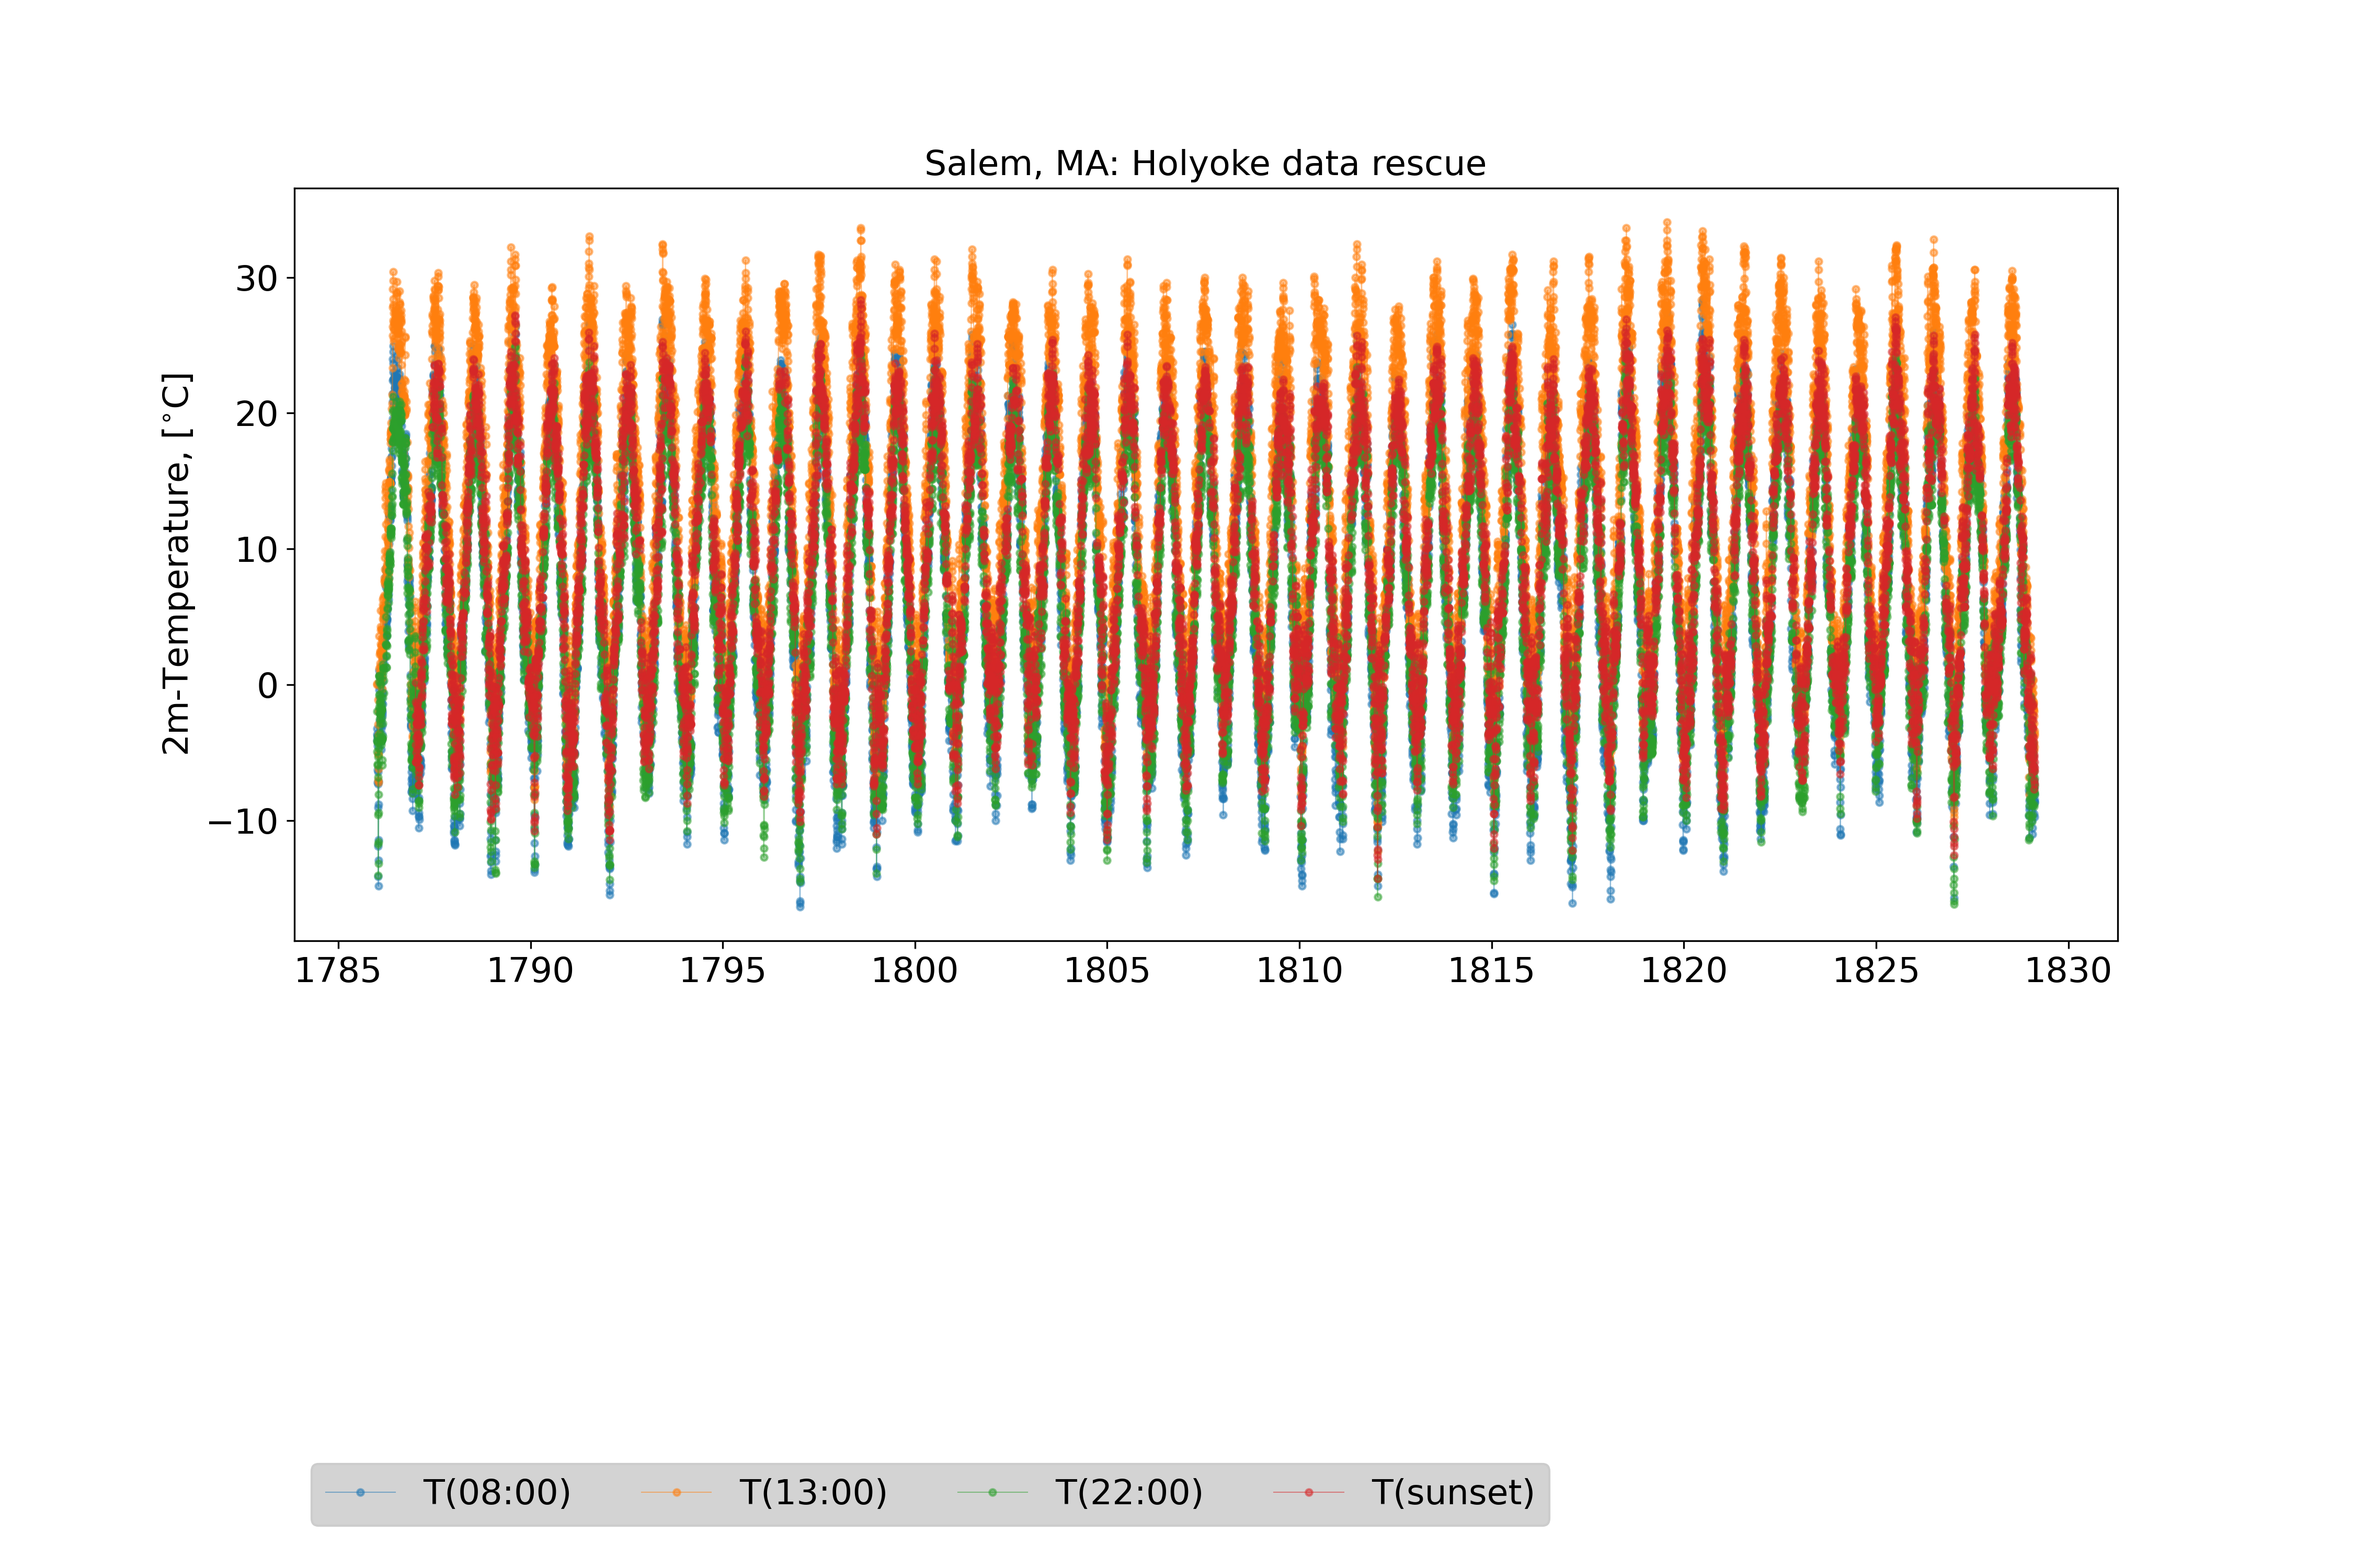
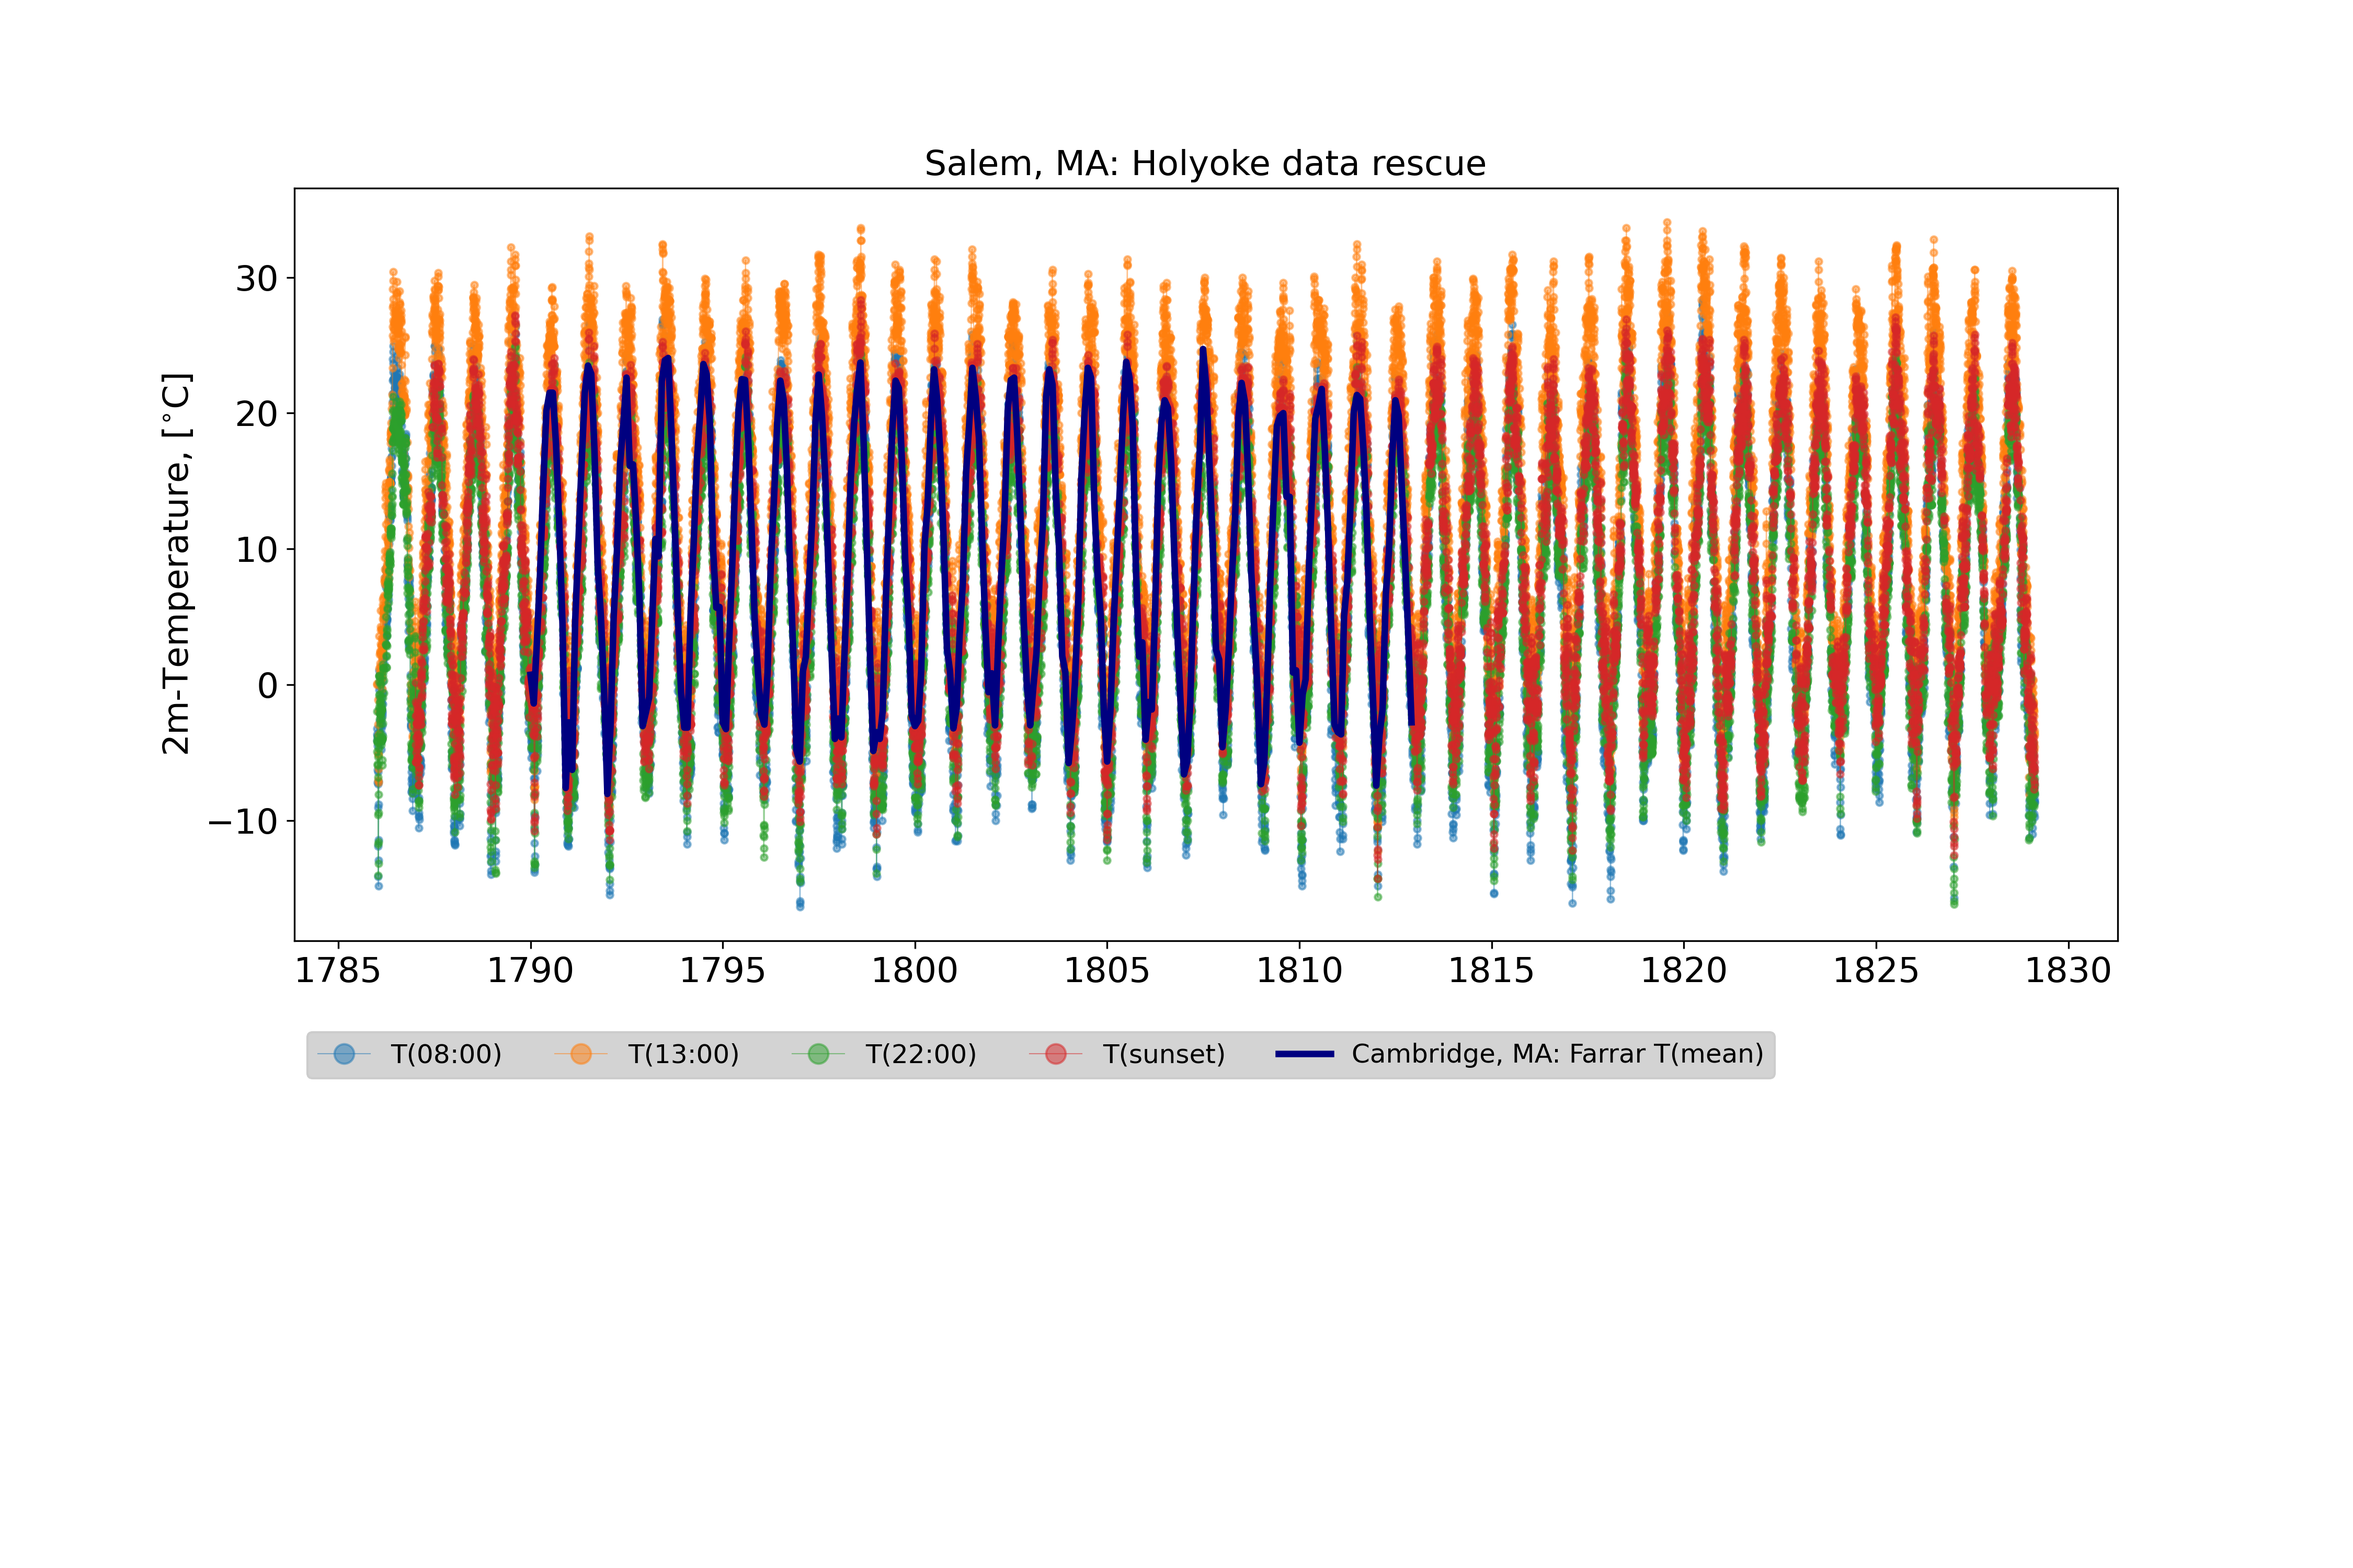
Overlay of Farrar Cambridge, MA monthly observation on Holyoke observations. Fixed calendar shift using cftime and resampling in xarray.

Changed region(s): [[0.2178, 0.217, 0.6222, 0.496], [0.1244, 0.651, 0.7778, 0.713], [0.1244, 0.93, 0.6844, 0.992]]

diff --git a/load-new-england-datasets.py b/load-new-england-datasets.py
@@ -66,9 +66,21 @@ from sklearn import datasets, linear_model
 from sklearn.linear_model import LinearRegression, TheilSenRegressor
 from sklearn.linear_model import RANSACRegressor
 from sklearn.metrics import mean_squared_error, r2_score
-
 from statsmodels.tsa.stattools import adfuller
 import statsmodels.api as sm
+
+# Datetime libraries
+import cftime
+import calendar 
+# print(calendar.calendar(2020))
+# print(calendar.month(2020,2))
+# calendar.isleap(2020)
+from datetime import date, time, datetime, timedelta
+#today = datetime.now()
+#tomorrow = today + pd.to_timedelta(1,unit='D')
+#tomorrow = today + timedelta(days=1)
+#birthday = datetime(1970,11,1,0,0,0).strftime('%Y-%m-%d %H:%M')
+#print('Week:',today.isocalendar()[1])
 
 # Silence library version notifications
 import warnings
@@ -163,7 +175,7 @@ if load_stations == True:
         ts_monthly = ts_monthly + monthly.to_list()    
     ts_monthly = np.array(ts_monthly)   
     t_monthly = pd.date_range(start=str(da.index[0]), periods=len(ts_monthly), freq='MS')    
-    df_bho_2828 = pd.DataFrame({'Tmean':ts_monthly}, index=t_monthly)
+    df_bho_2828 = pd.DataFrame({'T2828':ts_monthly}, index=t_monthly)
     df_bho_2828.index.name = 'datetime'
 
     da = pd.read_table('DATA/bho-tg.dat', index_col=0) # Tg monthly average
@@ -173,13 +185,14 @@ if load_stations == True:
         ts_monthly = ts_monthly + monthly.to_list()    
     ts_monthly = np.array(ts_monthly)   
     t_monthly = pd.date_range(start=str(da.index[0]), periods=len(ts_monthly), freq='MS')    
-    df_bho_tg = pd.DataFrame({'Tmean':ts_monthly}, index=t_monthly)
+    df_bho_tg = pd.DataFrame({'Tg':ts_monthly}, index=t_monthly)
     df_bho_tg.index.name = 'datetime'
 
     da = pd.read_table('DATA/bho-max_01.dat', index_col=0) # daily
     for i in range(2,13):
         db = pd.read_table('DATA/bho-max_'+str(i).zfill(2)+'.dat', index_col=0) # daily 
-        da = pd.concat([da,db],axis=1)        
+        da = pd.concat([da,db],axis=1)    
+    t = []        
     ts = []    
     for i in range(len(da)):                
         daily = da.iloc[i,0:]
@@ -189,14 +202,15 @@ if load_stations == True:
 
     # HANDLE: leap days (not working yet!)
 
-    t = pd.date_range(start=str(da.index[0])+'-01-01', periods=len(ts), freq='D')    
+    t = xr.cftime_range(start=str(da.index[0])+'-01-01', periods=len(ts), freq='D', calendar="all_leap")   
+#   t = pd.date_range(start=str(da.index[0])+'-01-01', periods=len(ts), freq='D')    
     df_bho_tmax = pd.DataFrame({'Tmax':ts}, index=t)
     df_bho_tmax.index.name = 'datetime'
-    mask_leap = ~is_leap_and_29Feb(df_bho_tmax)
-    ts_noleap = df_bho_tmax['Tmax'][mask_leap]
-    t = pd.date_range(start=str(da.index[0])+'-01-01', end=str(da.index[-1])+'-12-31', freq='D')    
-    df_bho_tmax = pd.DataFrame({'Tmax':ts_noleap}, index=t)
-    df_bho_tmax.index.name = 'datetime'
+#    mask_leap = ~is_leap_and_29Feb(df_bho_tmax)
+#    ts_noleap = df_bho_tmax['Tmax'][mask_leap]
+#    t = pd.date_range(start=str(da.index[0])+'-01-01', end=str(da.index[-1])+'-12-31', freq='D')    
+#    df_bho_tmax = pd.DataFrame({'Tmax':ts_noleap}, index=t)
+#    df_bho_tmax.index.name = 'datetime'
     
     da = pd.read_table('DATA/bho-min_01.dat', index_col=0) # daily
     for i in range(2,13):
@@ -211,22 +225,29 @@ if load_stations == True:
 
     # HANDLE: leap days (not working yet!)
  
-    t = pd.date_range(start=str(da.index[0])+'-01-01', periods=len(ts), freq='D')    
+    t = xr.cftime_range(start=str(da.index[0])+'-01-01', periods=len(ts), freq='D', calendar="all_leap")   
+#   t = pd.date_range(start=str(da.index[0])+'-01-01', periods=len(ts), freq='D')    
     df_bho_tmin = pd.DataFrame({'Tmin':ts}, index=t)
     df_bho_tmin.index.name = 'datetime'
-    mask_leap = ~is_leap_and_29Feb(df_bho_tmin)
-    ts_noleap = df_bho_tmin['Tmin'][mask_leap]
-    t = pd.date_range(start=str(da.index[0])+'-01-01', end=str(da.index[-1])+'-12-31', freq='D')    
-    df_bho_tmin = pd.DataFrame({'Tmin':ts_noleap}, index=t)
-    df_bho_tmin.index.name = 'datetime'
+#    mask_leap = ~is_leap_and_29Feb(df_bho_tmin)
+#    ts_noleap = df_bho_tmin['Tmin'][mask_leap]
+#    t = pd.date_range(start=str(da.index[0])+'-01-01', end=str(da.index[-1])+'-12-31', freq='D')    
+#    df_bho_tmin = pd.DataFrame({'Tmin':ts_noleap}, index=t)
+#    df_bho_tmin.index.name = 'datetime'
 
     # CALCULATE: Tg=(Tn+Tx)/2 and resample to monthly (and trim to TS end)
     
     df_bho_daily = pd.DataFrame({'Tmin':df_bho_tmin['Tmin'],'Tmax':df_bho_tmax['Tmax']},index=t)
     df_bho_daily['Tg'] = (df_bho_daily['Tmin']+df_bho_daily['Tmax'])/2.      
-    Tgm = df_bho_daily['Tg'].resample('M').agg('mean').values
-    t = pd.date_range(start=str(da.index[0]), periods=len(Tgm), freq='MS')    
-    df_bho_tgm = pd.DataFrame({'Tgm':Tgm},index=t)
+
+    # RESAMPLE: using xarray
+
+#   Tgm = df_bho_daily['Tg'].resample('M').agg('mean').values    
+    df_bho_daily_xr = df_bho_daily.to_xarray()    
+    df_bho_daily_xr_resampled = df_bho_daily_xr.Tg.resample(datetime='MS').mean().to_dataset()    
+
+    df_bho_monthly = df_bho_tg.copy() 
+    df_bho_monthly['Tgm'] = df_bho_daily_xr_resampled.Tg.values
                
 else:
        
@@ -877,9 +898,9 @@ figstr = 'bho-2828-tg.png'
 titlestr = 'Blue Hill Observatory (BHO): $T_{2828}$ versus $T_g$'
 
 fig, ax = plt.subplots(2,1, figsize=(15,10))
-ax[0].plot(df_bho_2828.index, df_bho_2828['Tmean'], '.', alpha=0.5, ls='-', lw=0.5, color='red', label='$T_{2828}$')
-ax[0].plot(df_bho_2828.index, df_bho_tg['Tmean'], '.', alpha=0.5, ls='-', lw=0.5, color='blue', label='$T_{g}$')
-ax[1].step(x=df_bho_2828.index, y=df_bho_2828['Tmean'] - df_bho_tg['Tmean'], ls='-', lw=0.5, color='teal')
+ax[0].plot(df_bho_2828.index, df_bho_2828['T2828'], '.', alpha=0.5, ls='-', lw=0.5, color='red', label='$T_{2828}$')
+ax[0].plot(df_bho_2828.index, df_bho_tg['Tg'], '.', alpha=0.5, ls='-', lw=0.5, color='blue', label='$T_{g}$')
+ax[1].step(x=df_bho_2828.index, y=df_bho_2828['T2828'] - df_bho_tg['Tg'], ls='-', lw=0.5, color='teal')
 ax[1].sharex(ax[0])
 ax[0].tick_params(labelsize=16)    
 ax[1].tick_params(labelsize=16)    
@@ -899,15 +920,15 @@ figstr = 'bho-tg-daily-monthly.png'
 titlestr = 'Blue Hill Observatory (BHO): $T_{g}$ from daily (1m-MA) versus $T_g$ monthly'
 
 fig, ax = plt.subplots(2,1, figsize=(15,10))
-ax[0].plot(df_bho_tgm.index, df_bho_tgm['Tgm'], '.', alpha=0.5, ls='-', lw=0.5, color='red', label='$T_{g}$ from daily')
-ax[0].plot(df_bho_tg.index, df_bho_tg['Tmean'], '.', alpha=0.5, ls='-', lw=0.5, color='blue', label='$T_{g}$ monthly')
-ax[1].step(x=df_bho_tgm.index, y=(df_bho_tgm['Tgm']-df_bho_tg['Tmean']), ls='-', lw=0.5, color='teal')
+ax[0].plot(df_bho_monthly.index, df_bho_monthly['Tgm'], '.', alpha=0.5, ls='-', lw=0.5, color='red', label='$T_{g}$ from daily')
+ax[0].plot(df_bho_monthly.index, df_bho_monthly['Tg'], '.', alpha=0.5, ls='-', lw=0.5, color='blue', label='$T_{g}$ monthly')
+ax[1].step(x=df_bho_monthly.index, y=(df_bho_monthly['Tgm']-df_bho_monthly['Tg']), ls='-', lw=0.5, color='teal')
 ax[1].sharex(ax[0])
 ax[0].tick_params(labelsize=16)    
 ax[1].tick_params(labelsize=16)    
 ax[0].legend(loc='lower right', ncol=1, markerscale=2, facecolor='lightgrey', framealpha=1, fontsize=fontsize)    
 ax[0].set_ylabel(r'2m-Temperature, [$^{\circ}$C]', fontsize=fontsize)
-ax[1].set_ylabel(r'$T_{g}$ (from daily: 1m-MA) - $T_{g}$ (monthly), [$^{\circ}$C]', fontsize=fontsize)
+ax[1].set_ylabel(r'$T_{g}$ (from daily) - $T_{g}$ (monthly), [$^{\circ}$C]', fontsize=fontsize)
 ax[0].set_title(titlestr, fontsize=fontsize)
 fig.tight_layout()
 plt.savefig(figstr, dpi=300)
